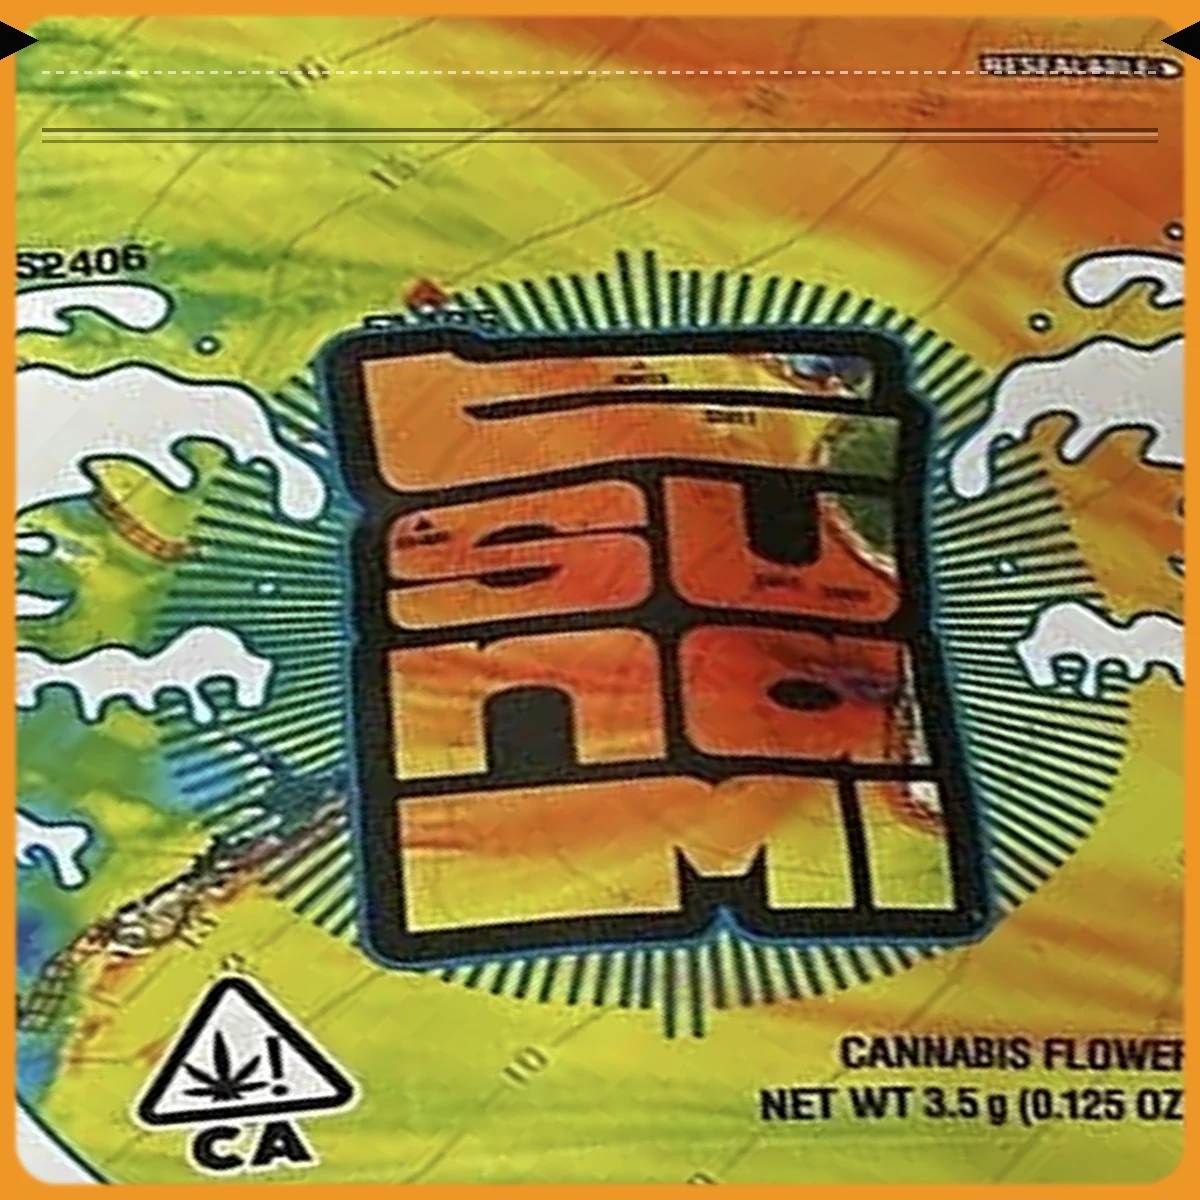
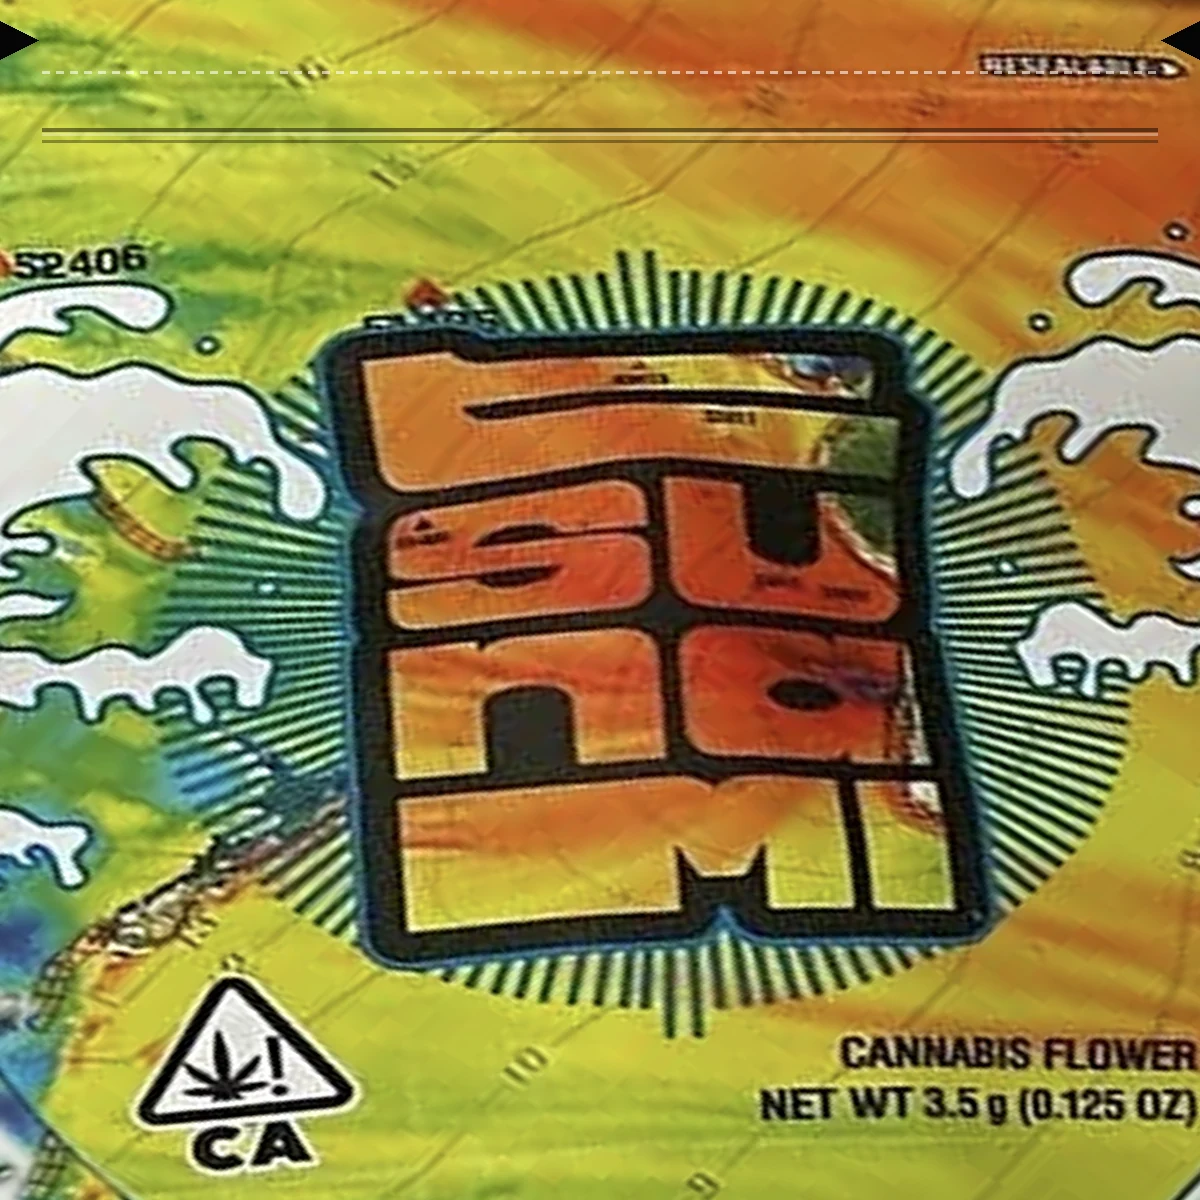
Collabs TSUNAMI: clean corners (no frame cutting into the print, no grey bag corner)
Claude-Session: https://claude.ai/code/session_015rc9MQC6xqspTEWMJWTMxb

Changed region(s): [[0.0, 0.0, 1.0, 1.0]]

diff --git a/jar/bag.js b/jar/bag.js
@@ -21,8 +21,8 @@ export const BAGS = {
     bg: 'sky_bg.webp?v=1', bgColor: '#02030a', bounce: '#5a7dff', ground: '#101a3a', bottom: 'sky_front.webp?v=1', bottomAt: [0.6, 0.05, 0.38],
     glow: ['rgba(90,130,255,0.45)', 'rgba(110,70,200,0.16)', 'rgba(30,10,90,0)'] },
   // TSUNAMI (Wheezy): the orange / yellow wave bag, a squarer pouch
-  tsu: { front: 'tsu_front.webp?v=2', back: 'tsu_back.webp?v=2', W: 1.4, H: 1.4, T: 0.13, G: 0.26, buds: 8,
-    bg: 'tsu_bg.webp?v=2', bgColor: '#0a0502', bounce: '#ffa030', ground: '#3a1a04', bottom: 'tsu_front.webp?v=2', bottomAt: [0.04, 0.12, 0.4],
+  tsu: { front: 'tsu_front.webp?v=3', back: 'tsu_back.webp?v=3', W: 1.4, H: 1.4, T: 0.13, G: 0.26, buds: 8,
+    bg: 'tsu_bg.webp?v=2', bgColor: '#0a0502', bounce: '#ffa030', ground: '#3a1a04', bottom: 'tsu_front.webp?v=3', bottomAt: [0.04, 0.12, 0.4],
     glow: ['rgba(255,170,40,0.45)', 'rgba(255,90,20,0.16)', 'rgba(90,30,0,0)'] },
   // GELATO 41: the purple "Premium Cannabis" bag
   gel: { front: 'gel_front.webp?v=3', back: 'gel_back.webp?v=3', W: 1.21, H: 1.62, T: 0.13, G: 0.27, buds: 6,

diff --git a/jar/index.html b/jar/index.html
@@ -118,7 +118,7 @@ document.body.appendChild(MBNav.create({
 <script type="importmap">{ "imports": { "three": "./vendor/three.module.min.js" } }</script>
 <script type="module">
 import { mount } from './jar.js?v=37'
-import { mount as mountBag } from './bag.js?v=16'
+import { mount as mountBag } from './bag.js?v=17'
 // two collabs: Ken Carson and QRÖME. The switch (or #qrome in the link) swaps the jar, the name and the song.
 // QRÖME's name: the site's animated METRO BLOOMIN lettering (stacked-alpha video, colour on top, mask below, as on
 // the shop page), drawn into a canvas; plays each time QRÖME is picked; the still if the phone blocks the video
